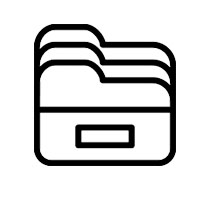
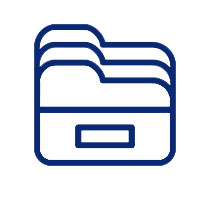
New contetnt

Changed region(s): [[0.15, 0.12, 0.9, 0.84], [0.36, 0.6, 0.69, 0.75]]

diff --git a/index.html b/index.html
@@ -32,8 +32,11 @@
         <script src="https://oss.maxcdn.com/libs/respond.js/1.4.2/respond.min.js" integrity="sha384-ZoaMbDF+4LeFxg6WdScQ9nnR1QC2MIRxA1O9KWEXQwns1G8UNyIEZIQidzb0T1fo" crossorigin="anonymous"></script>
     <![endif]-->
     <style>
+        body {
+            color: #0a2973;
+        }
         .navbar-custom{
-            background-color: RGBA(0, 0, 0, 0.25);
+            background-color: RGBA(10, 41,115, 0.25);
         }
     </style>
 </head>
@@ -100,11 +103,11 @@
                                     <p class="help-block text-danger"></p>
                                 </div>
                                 <div class="form-group">
-                                    <input type="email" class="form-control" placeholder="e-mail *" id="emailModal">
+                                    <input type="number" class="form-control" placeholder="Сумма заработной платы *" id="myMoney" required data-validation-required-message="Пожалуйста, проверьте введенную сумму">
                                     <p class="help-block text-danger"></p>
                                 </div>
                                 <div class="form-group">
-                                    <input type="tel" class="form-control" placeholder="Номер телефона *" id="phoneModal" required data-validation-required-message="Пожалуйста, проверьте введенный номер">
+                                    <input type="number" class="form-control" placeholder="Сумма выплат по кредиту в месяц *" id="SumPay" required data-validation-required-message="Пожалуйста, проверьте введенную сумму">
                                     <p class="help-block text-danger"></p>
                                 </div>
                                 <div class="form-group">
@@ -112,10 +115,18 @@
                                     <p class="help-block text-danger"></p>
                                 </div>
                                 <div class="form-group">
-                                    <label style="opacity: 0.7; font-weight: 400;" for="messageModal">В заявке указать информацию по кредитной истории. Есть ли действующие кредиты сколько платеж по ним. Есть ли рассрочки или карта халва.</label>
-                                    <textarea class="form-control" placeholder="Сообщение *" id="messageModal" required data-validation-required-message="Пожалуйста, введите ваше сообщение"></textarea>
+                                    <input type="tel" class="form-control" placeholder="Номер телефона *" id="phoneModal" required data-validation-required-message="Пожалуйста, проверьте введенный номер">
                                     <p class="help-block text-danger"></p>
                                 </div>
+                                <div class="form-group">
+                                    <input type="email" class="form-control" placeholder="e-mail *" id="emailModal">
+                                    <p class="help-block text-danger"></p>
+                                </div>
+                                <!--<div class="form-group">-->
+                                    <!--<label style="opacity: 0.7; font-weight: 400;" for="messageModal">В заявке указать информацию по кредитной истории. Есть ли действующие кредиты сколько платеж по ним. Есть ли рассрочки или карта халва.</label>-->
+                                    <!--<textarea class="form-control" placeholder="Сообщение *" id="messageModal" required data-validation-required-message="Пожалуйста, введите ваше сообщение"></textarea>-->
+                                    <!--<p class="help-block text-danger"></p>-->
+                                <!--</div>-->
                                 <div class="clearfix"></div>
                                 <div class="col-lg-12 text-center">
                                     <div id="successModal"></div>
@@ -142,7 +153,7 @@
             <div class="row text-center">
                 <div class="col-md-4">
                     <span class="fa-stack fa-4x">
-                        <i class="fa fa-circle fa-stack-2x text-primary"></i>
+                        <i class="fa fa-circle fa-stack-2x text-primary-color" style="color: #0a2973"></i>
                         <i class="fa fa-bomb fa-stack-1x fa-inverse"></i>
                     </span>
                     <h4 class="service-heading">Условия</h4>
@@ -150,7 +161,7 @@
                 </div>
                 <div class="col-md-4">
                     <span class="fa-stack fa-4x">
-                        <i class="fa fa-circle fa-stack-2x text-primary"></i>
+                        <i class="fa fa-circle fa-stack-2x text-primary-color" style="color: #0a2973"></i>
                         <i class="fa fa-money fa-stack-1x fa-inverse"></i>
                     </span>
                     <h4 class="service-heading">Услуги</h4>
@@ -158,7 +169,7 @@
                 </div>
                 <div class="col-md-4">
                     <span class="fa-stack fa-4x">
-                        <i class="fa fa-circle fa-stack-2x text-primary"></i>
+                        <i class="fa fa-circle fa-stack-2x text-primary-color" style="color: #0a2973"></i>
                         <i class="fa fa-clock-o fa-stack-1x fa-inverse"></i>
                     </span>
                     <h4 class="service-heading">Сроки</h4>

diff --git a/css/agency.min.css b/css/agency.min.css
@@ -26,6 +26,9 @@ body {
 .text-primary, a {
     color: #fed136
 }
+text-primary-color {
+    color: #0a2973 !important;
+}
 
 p {
     font-size: 14px;
@@ -104,7 +107,7 @@ a.active, a:active, a:focus, a:hover {
 }
 
 .navbar-custom {
-    background-color: #222;
+    background-color:#0a2973;
     border-color: transparent
 }
 
@@ -180,7 +183,7 @@ a.active, a:active, a:focus, a:hover {
     }
 
     .navbar-custom.affix {
-        background-color: #222;
+        background-color: #0a2973;
         padding: 10px 0
     }
 
@@ -194,6 +197,8 @@ header {
     background-repeat: no-repeat;
     background-attachment: scroll;
     background-position: center center;
+    background-color: #7190da;
+    background-blend-mode: multiply;
     -webkit-background-size: cover;
     -moz-background-size: cover;
     background-size: cover;
@@ -371,7 +376,7 @@ footer span.copyright, footer ul.quicklinks {
     position: absolute;
     content: "";
     width: 2px;
-    background-color: #f1f1f1;
+    background-color: #0a2973;
     left: 40px;
     margin-left: -1.5px
 }
@@ -423,7 +428,7 @@ footer span.copyright, footer ul.quicklinks {
     background-color: #fed136;
     color: #fff;
     border-radius: 100%;
-    border: 7px solid #f1f1f1;
+    border: 7px solid #0a2973;
     text-align: center
 }
 
@@ -578,7 +583,7 @@ aside.clients img {
 }
 
 section#contact {
-    background-color: #222;
+    background-color: #0a2973;
     background-image: url(../img/map-image.png);
     background-position: center;
     background-repeat: no-repeat
@@ -665,7 +670,7 @@ ul.social-buttons {
 
 ul.social-buttons li a {
     display: block;
-    background-color: #222;
+    background-color: #0a2973;
     height: 40px;
     width: 40px;
     border-radius: 100%;

diff --git a/js/credits.js b/js/credits.js
@@ -13,8 +13,10 @@ $(function() {
             var nameModal = $("input#nameModal").val();
             var emailModal = $("input#emailModal").val();
             var phoneModal = $("input#phoneModal").val();
+            var myMoney = $("input#myMoney").val();
+            var SumPay = $("input#SumPay").val();
             var creditModal = $("input#creditModal").val();
-            var messageModal = $("textarea#messageModal").val();
+            // var messageModal = $("textarea#messageModal").val();
             var firstName = nameModal; // For Success/Failure Message
             // Check for white space in name for Success/Fail message
             if (firstName.indexOf(' ') >= 0) {
@@ -27,8 +29,10 @@ $(function() {
                     nameModal: nameModal,
                     phoneModal: phoneModal,
                     emailModal: emailModal,
+                    myMoney: creditModal,
+                    sumPay: creditModal,
                     creditModal: creditModal,
-                    messageModal: messageModal
+                    // messageModal: messageModal
                 },
                 cache: false,
                 success: function() {

diff --git a/css/agency.css b/css/agency.css
@@ -13,6 +13,9 @@ body {
 .text-primary {
   color: #fed136;
 }
+text-primary-color {
+  color: #0a2973 !important;
+}
 p {
   font-size: 14px;
   line-height: 1.75;
@@ -218,7 +221,7 @@ fieldset[disabled] .btn-xl.active {
 }
 @media (min-width: 768px) {
   .navbar-custom.affix {
-    background-color: #222222;
+    background-color: RGBA(10, 41,115, 1);;
     padding: 10px 0;
   }
   .navbar-custom.affix .navbar-brand {
@@ -230,6 +233,8 @@ header {
   background-repeat: no-repeat;
   background-attachment: scroll;
   background-position: center center;
+  background-color: #7190da;
+  background-blend-mode: multiply;
   -webkit-background-size: cover;
   -moz-background-size: cover;
   background-size: cover;
@@ -540,7 +545,7 @@ section h3.section-subheading {
 }
 .team-member img {
   margin: 0 auto;
-  border: 7px solid white;
+  border: 7px solid #0a2973;
 }
 .team-member h4 {
   margin-top: 25px;
@@ -554,7 +559,7 @@ aside.clients img {
   margin: 50px auto;
 }
 section#contact {
-  background-color: #222222;
+  background-color: #0a2973;
   background-image: url('../img/map-image.png');
   background-position: center;
   background-repeat: no-repeat;

diff --git a/scss/agency.scss b/scss/agency.scss
@@ -15,6 +15,9 @@ body {
 .text-primary {
     color: $theme-primary;
 }
+text-primary-color {
+    color: #0a2973
+}
 
 p {
     font-size: 14px;

diff --git a/less/agency.less b/less/agency.less
@@ -15,6 +15,9 @@ body {
 .text-primary {
     color: @theme-primary;
 }
+text-primary-color {
+  color: #0a2973
+}
 
 p {
     font-size: 14px;

diff --git a/mail/credits.php b/mail/credits.php
@@ -3,8 +3,9 @@
 if(empty($_POST['nameModal'])      ||
    empty($_POST['emailModal'])     ||
    empty($_POST['phoneModal'])     ||
-   empty($_POST['messageModal'])   ||
    empty($_POST['creditModal'])   ||
+   empty($_POST['sumPay'])   ||
+   empty($_POST['myMoney'])   ||
    !filter_var($_POST['emailModal'],FILTER_VALIDATE_EMAIL))
    {
    echo "No arguments Provided!";
@@ -15,14 +16,16 @@ $name = strip_tags(htmlspecialchars($_POST['nameModal']));
 $email_address = strip_tags(htmlspecialchars($_POST['emailModal']));
 $phone = strip_tags(htmlspecialchars($_POST['phoneModal']));
 $credit = strip_tags(htmlspecialchars($_POST['creditModal']));
+$sumPay = strip_tags(htmlspecialchars($_POST['sumPay']));
+$myMoney = strip_tags(htmlspecialchars($_POST['myMoney']));
 $message = strip_tags(htmlspecialchars($_POST['messageModal']));
    
 // Create the email and send the message
 $to = 'infoGroshi@yandex.ru'; // Add your email address inbetween the '' replacing yourname@yourdomain.com - This is where the form will send a message to.
 $email_subject = "Website Contact Form:  $name";
 $email_body =
-    "Вы получили новый запрос на получение кредита.\n\n".
-    "Детали сообщения:\n\nФИО: $name\n\ne-mail: $email_address\n\nНомер телефона: $phone\n\nCумма кредита: $credit\n\nДетали сообщения:\n$message";
+    "У вас новый запрос на получение кредита.\n\n".
+    "Детали сообщения:\n\nФИО: $name\n\ne-mail: $email_address\n\nНомер телефона: $phone\n\nCумма ЗП: $myMoney\n\nCумма Выплат в месяц: $sumPay\n\nCумма кредита: $credit\n\nДетали сообщения:\n$message";
 $headers = "From: noreply@yourdomain.com\n"; // This is the email address the generated message will be from. We recommend using something like noreply@yourdomain.com.
 $headers .= "Reply-To: $email_address";   
 mail($to,$email_subject,$email_body,$headers);

diff --git a/mail/contact_me.php b/mail/contact_me.php
@@ -16,10 +16,10 @@ $phone = strip_tags(htmlspecialchars($_POST['phone']));
 $message = strip_tags(htmlspecialchars($_POST['message']));
    
 // Create the email and send the message
-$to = 'infoGroshi@yandex.ru'; // Add your email address inbetween the '' replacing yourname@yourdomain.com - This is where the form will send a message to.
+$to = 'info@гроши.бел'; // Add your email address inbetween the '' replacing yourname@yourdomain.com - This is where the form will send a message to.
 $email_subject = "Website Contact Form:  $name";
 $email_body = "You have received a new message from your website contact form.\n\n"."Here are the details:\n\nName: $name\n\nEmail: $email_address\n\nPhone: $phone\n\nMessage:\n$message";
-$headers = "From: noreply@yourdomain.com\n"; // This is the email address the generated message will be from. We recommend using something like noreply@yourdomain.com.
+$headers = "From: noreply@yourdomain.com\n";
 $headers .= "Reply-To: $email_address";   
 mail($to,$email_subject,$email_body,$headers);
 return true;         
